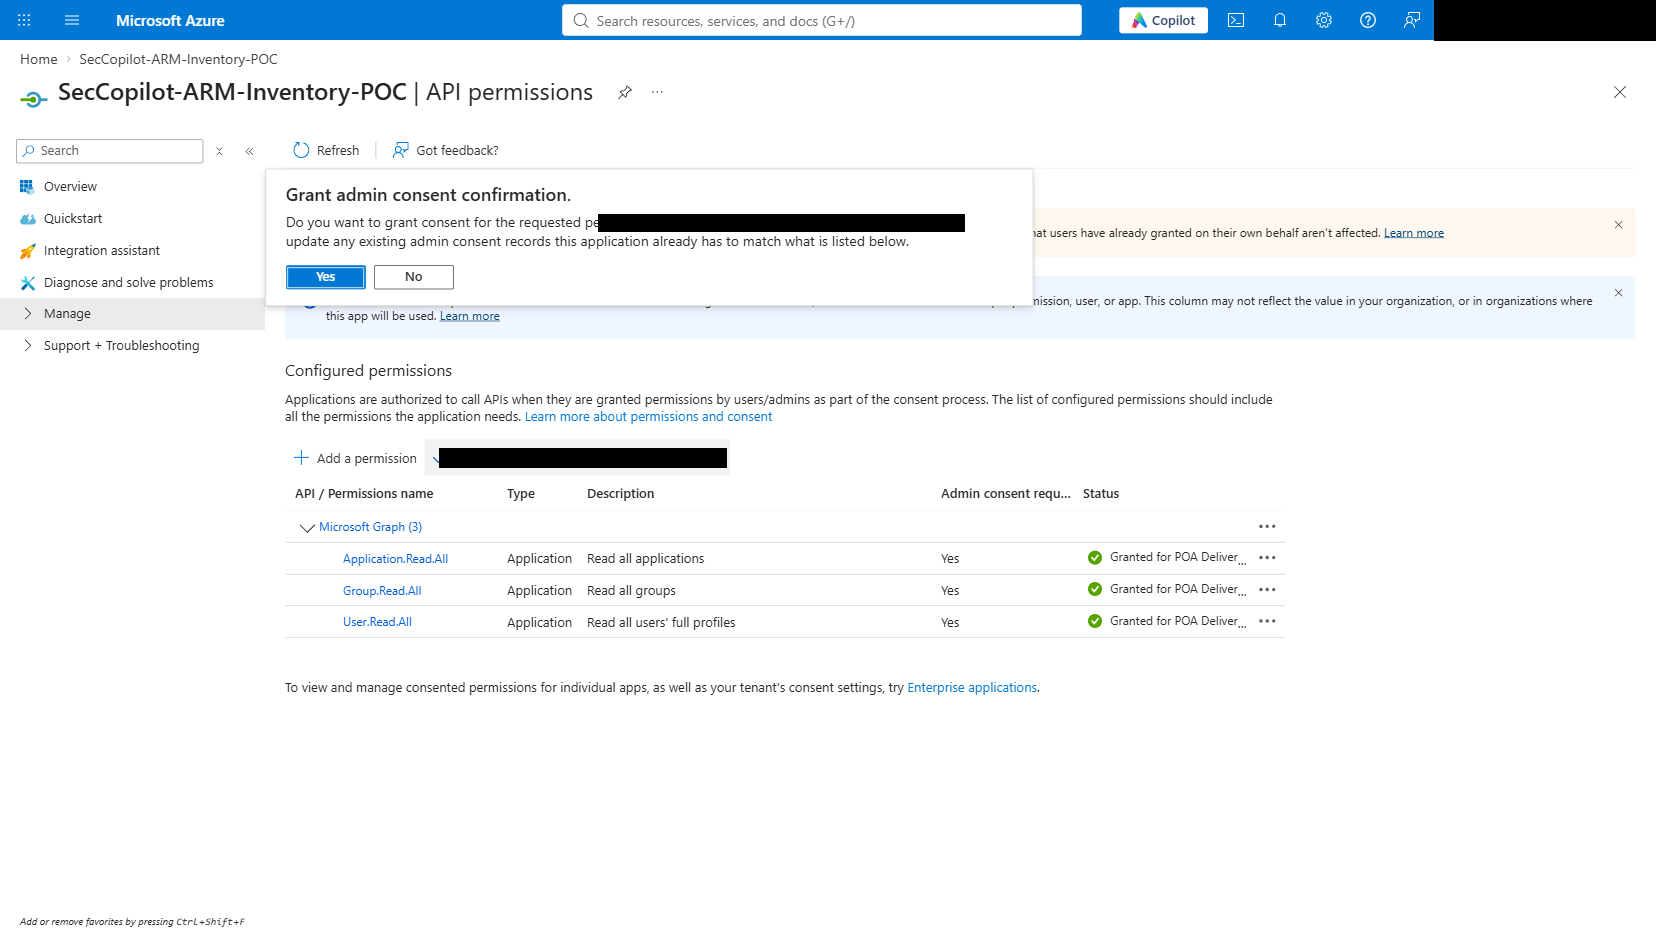
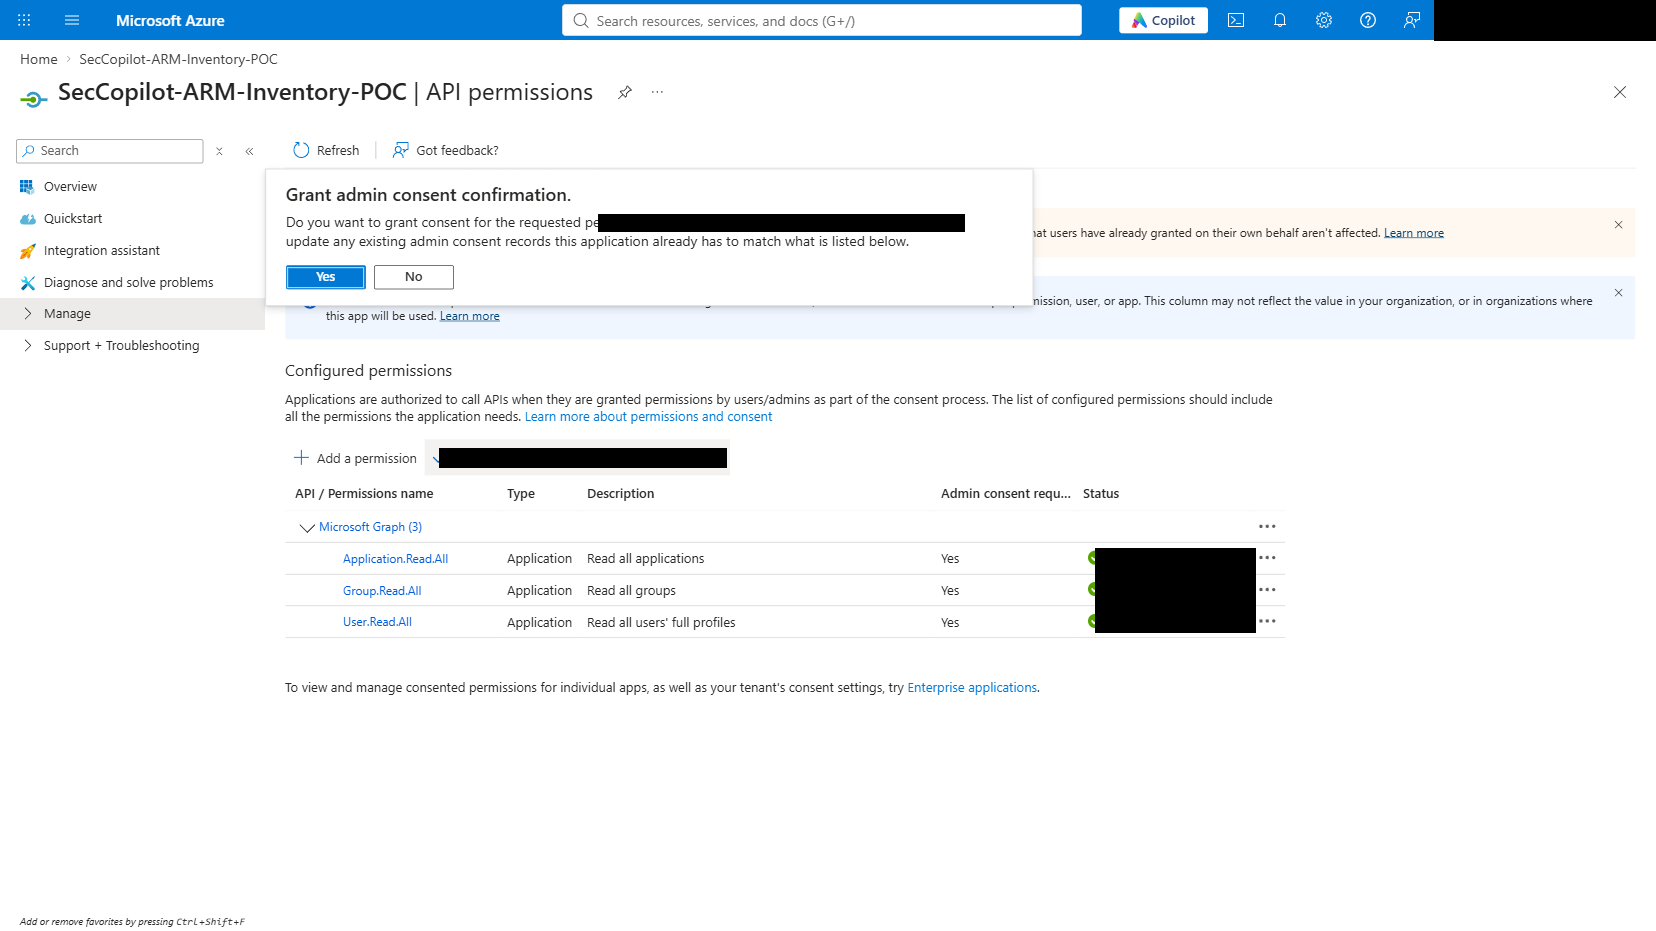
Redact leaked tenant and principal data from RBAC module docs and screenshots

Changed region(s): [[0.6467, 0.5607, 0.7699, 0.6853]]

diff --git a/Azure RBAC Inventory Module/Logic App/README.md b/Azure RBAC Inventory Module/Logic App/README.md
@@ -128,7 +128,7 @@ And the `Compose Row` action shows the final merged structure for that same iter
 
 ## Sample Output
 
-A single run returns a JSON array where every row is fully resolved — no raw GUIDs left for the reader to decode:
+A single run returns a JSON array where every row is fully resolved — no raw GUIDs left for the reader to decode. The following is illustrative, fictional example data (not real tenant output):
 
 ```json
 [
@@ -136,7 +136,7 @@ A single run returns a JSON array where every row is fully resolved — no raw G
     "SubscriptionId": "<subscription-id>",
     "SubscriptionName": "<subscription-name>",
     "PrincipalId": "<principal-id>",
-    "PrincipalName": "System Administrator",
+    "PrincipalName": "Jane Doe",
     "PrincipalType": "#microsoft.graph.user",
     "RoleName": "Owner",
     "Scope": "/subscriptions/<subscription-id>"
@@ -145,7 +145,7 @@ A single run returns a JSON array where every row is fully resolved — no raw G
     "SubscriptionId": "<subscription-id>",
     "SubscriptionName": "<subscription-name>",
     "PrincipalId": "<principal-id>",
-    "PrincipalName": "CDX-SecurityScanner",
+    "PrincipalName": "Contoso-SecurityScanner",
     "PrincipalType": "#microsoft.graph.servicePrincipal",
     "RoleName": "Reader",
     "Scope": "/subscriptions/<subscription-id>"

diff --git a/Azure RBAC Inventory Module/Entra Principal Resolver/README.md b/Azure RBAC Inventory Module/Entra Principal Resolver/README.md
@@ -117,7 +117,7 @@ Resolving a known object ID directly confirms the plugin works end-to-end:
 
 | Object ID | Resolved via | Result |
 |---|---|---|
-| `d5a157af-...` | `ResolveEntraUserById` | displayName: `System Administrator`, UPN: `admin@<tenant>.onmicrosoft.com` |
+| `d5a157af-...` | `ResolveEntraUserById` | displayName: `<resolved user display name>`, UPN: `admin@<tenant>.onmicrosoft.com` |
 | `15d05821-...` | `ResolveEntraServicePrincipalById` | displayName: matches the RBAC Inventory plugin's own service principal, appId matches its ClientId |
 
 ![Live test — user resolved successfully](../Images/24.png)
